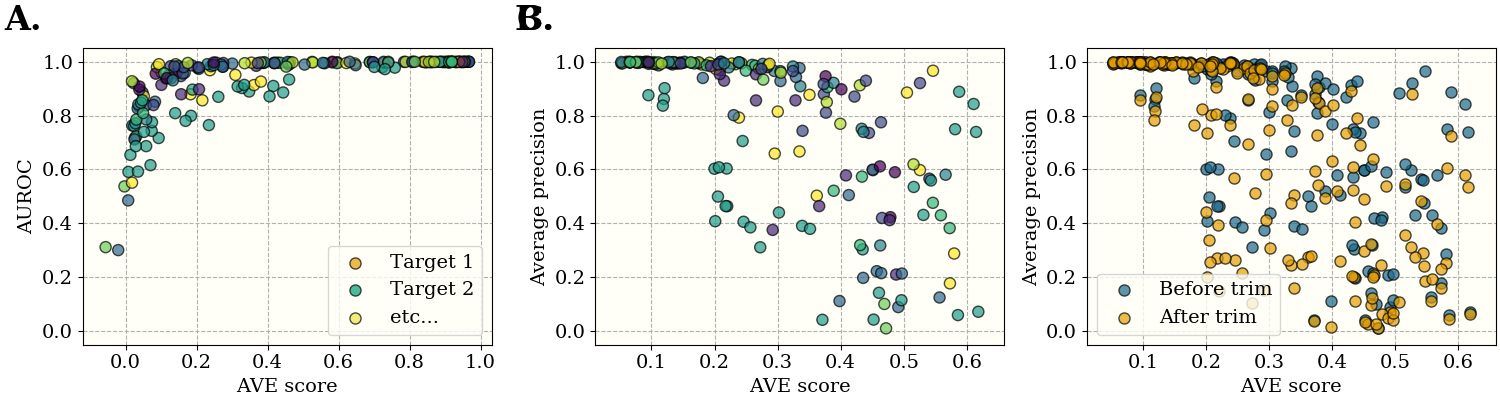
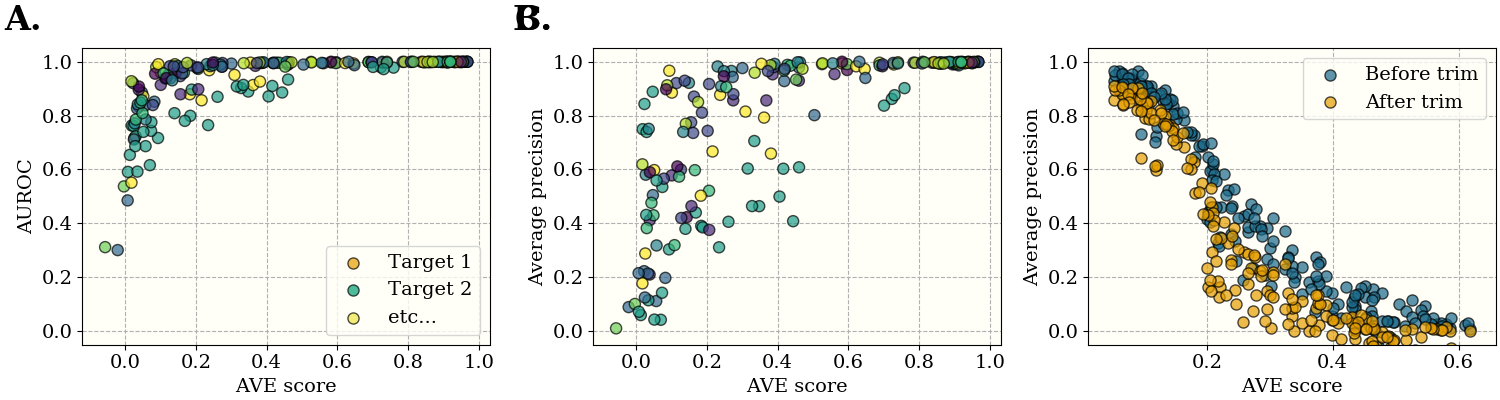
figs

diff --git a/code/replicate_AVE_figures.py b/code/replicate_AVE_figures.py
@@ -44,14 +44,14 @@ ax[0].legend()
 ax[0].grid()
 utils.plot_fig_label(ax[0],'A.')
 
-ax[1].scatter(cutoffs, ap_before_trim, c=targets, alpha=utils.ALPHA)
+ax[1].scatter(aves_before_trim, ap_before_trim, c=targets, alpha=utils.ALPHA)
 ax[1].set_xlabel('AVE score')
 ax[1].set_ylabel('Average precision')
 ax[1].grid()
 utils.plot_fig_label(ax[1], 'B.')
 
-ax[2].scatter(cutoffs, ap_before_trim, alpha=utils.ALPHA, label='Before trim')
-ax[2].scatter(cutoffs, ap_after_trim,alpha=utils.ALPHA, label='After trim')
+ax[2].scatter(cutoffs, aves_before_trim, alpha=utils.ALPHA, label='Before trim')
+ax[2].scatter(cutoffs, aves_after_trim, alpha=utils.ALPHA, label='After trim')
 ax[2].set_xlabel('AVE score')
 ax[2].set_ylabel('Average precision')
 ax[2].grid()
